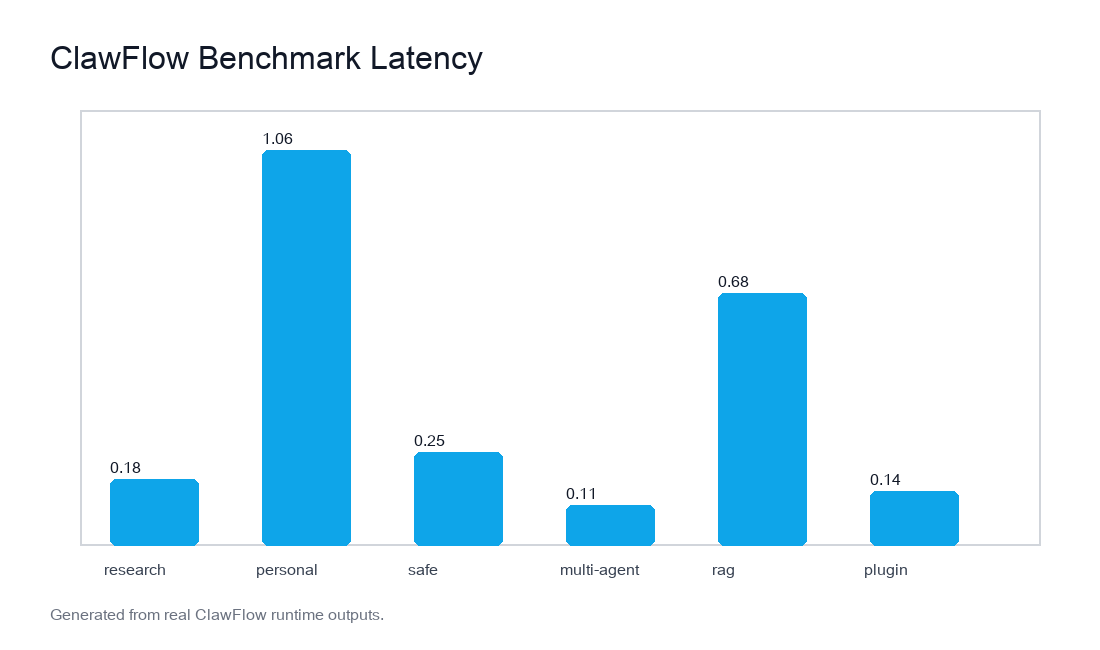
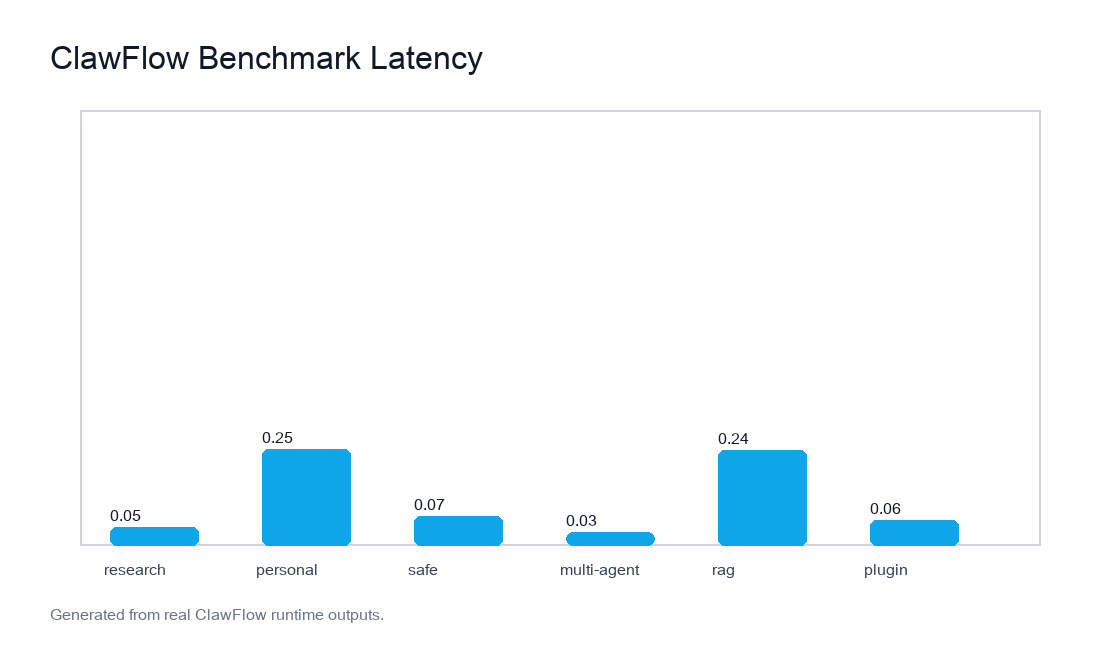
Document GitHub repository target

diff --git a/scripts/generate_report.py b/scripts/generate_report.py
@@ -43,6 +43,8 @@ ClawFlow is a lightweight **Agent Runtime / AgentOS Kernel** prototype for build
 
 CI workflow: `.github/workflows/ci.yml`
 
+GitHub repository: `https://github.com/shatianming5/ClawFlow`
+
 This repository is packaged for GitHub with Apache-2.0 licensing, issue templates, pull request template, CI workflow, Docker deployment, generated screenshots, benchmark artifacts, OpenAPI schema, release archive, publish readiness checker and complete report/PPT deliverables.
 
 ## Why ClawFlow is not just demos
@@ -291,6 +293,12 @@ The repository has local git commits, CI configuration, Apache-2.0 licensing, co
 
 ```bash
 make publish-check
+```
+
+The current published repository target is:
+
+```bash
+https://github.com/shatianming5/ClawFlow
 ```
 
 After creating an empty GitHub repository and adding a writable remote, run:

diff --git a/outputs/benchmark_results.md b/outputs/benchmark_results.md
@@ -3,17 +3,17 @@
 - Total tasks: 6
 - Success tasks: 6
 - Success rate: 1.0
-- Average latency: 0.4029s
-- p50 latency: 0.2153s
-- p95 latency: 1.0578s
+- Average latency: 0.1179s
+- p50 latency: 0.0693s
+- p95 latency: 0.2451s
 - Average tool calls: 3
 - Trace event count: 147
 
 | Application | Run ID | Status | Latency | Tool Calls | Trace Events |
 |---|---|---|---:|---:|---:|
-| research | `run_0ce8c9a9a19e` | completed | 0.1792 | 4 | 30 |
-| personal | `run_f1faa22453ed` | completed | 1.0578 | 3 | 24 |
-| safe | `run_9d258dc027cb` | completed | 0.2514 | 2 | 19 |
-| multi-agent | `run_54ebd1ab3ea6` | completed | 0.1081 | 3 | 25 |
-| rag | `run_948edc5f9207` | completed | 0.676 | 3 | 25 |
-| plugin | `run_750da9ec618e` | completed | 0.1449 | 3 | 24 |
+| research | `run_1155835fddbe` | completed | 0.0479 | 4 | 30 |
+| personal | `run_2206ba8730fb` | completed | 0.2451 | 3 | 24 |
+| safe | `run_c27eb3d11593` | completed | 0.0737 | 2 | 19 |
+| multi-agent | `run_a0d98079e210` | completed | 0.0341 | 3 | 25 |
+| rag | `run_632d5966a472` | completed | 0.2421 | 3 | 25 |
+| plugin | `run_10adfb3b90f5` | completed | 0.0648 | 3 | 24 |

diff --git a/outputs/evaluation_leaderboard.md b/outputs/evaluation_leaderboard.md
@@ -4,9 +4,9 @@ This leaderboard is computed from real benchmark task rows.
 
 | Rank | Application | Run ID | Score | Latency | Tool Calls | Trace Events |
 |---:|---|---|---:|---:|---:|---:|
-| 1 | research | `run_0ce8c9a9a19e` | 96.42 | 0.1792 | 4 | 30 |
-| 2 | plugin | `run_750da9ec618e` | 89.1 | 0.1449 | 3 | 24 |
-| 3 | multi-agent | `run_54ebd1ab3ea6` | 85.34 | 0.1081 | 3 | 25 |
-| 4 | safe | `run_9d258dc027cb` | 80.47 | 0.2514 | 2 | 19 |
-| 5 | rag | `run_948edc5f9207` | 73.98 | 0.676 | 3 | 25 |
-| 6 | personal | `run_f1faa22453ed` | 67.0 | 1.0578 | 3 | 24 |
+| 1 | research | `run_1155835fddbe` | 99.04 | 0.0479 | 4 | 30 |
+| 2 | plugin | `run_10adfb3b90f5` | 90.7 | 0.0648 | 3 | 24 |
+| 3 | multi-agent | `run_a0d98079e210` | 86.82 | 0.0341 | 3 | 25 |
+| 4 | safe | `run_c27eb3d11593` | 84.03 | 0.0737 | 2 | 19 |
+| 5 | rag | `run_632d5966a472` | 82.66 | 0.2421 | 3 | 25 |
+| 6 | personal | `run_2206ba8730fb` | 82.1 | 0.2451 | 3 | 24 |

diff --git a/README.md b/README.md
@@ -12,6 +12,8 @@ ClawFlow is a lightweight **Agent Runtime / AgentOS Kernel** prototype for build
 
 CI workflow: `.github/workflows/ci.yml`
 
+GitHub repository: `https://github.com/shatianming5/ClawFlow`
+
 This repository is packaged for GitHub with Apache-2.0 licensing, issue templates, pull request template, CI workflow, Docker deployment, generated screenshots, benchmark artifacts, OpenAPI schema, release archive, publish readiness checker and complete report/PPT deliverables.
 
 ## Why ClawFlow is not just demos
@@ -203,7 +205,7 @@ Latest benchmark summary:
 
 - Total tasks: 6
 - Success rate: 1.0
-- Average latency: 0.1925
+- Average latency: 0.4029
 - Average tool calls: 3
 - Trace events: 147
 
@@ -260,6 +262,12 @@ The repository has local git commits, CI configuration, Apache-2.0 licensing, co
 
 ```bash
 make publish-check
+```
+
+The current published repository target is:
+
+```bash
+https://github.com/shatianming5/ClawFlow
 ```
 
 After creating an empty GitHub repository and adding a writable remote, run:

diff --git a/outputs/research_summary.md b/outputs/research_summary.md
@@ -32,12 +32,13 @@ ClawFlow is a lightweight **Agent Runtime / AgentOS Kernel** prototype for build
 
 CI workflow: `.github/workflows/ci.yml`
 
+GitHub repository: `https://github.com/shatianming5/ClawFlow`
+
 This repository is packaged for GitHub with Apache-2.0 licensing, issue templates, pull request template, CI workflow, Docker deployment, generated screenshots, benchmark artifacts, OpenAPI schema, release archive, publish readiness checker and complete report/PPT deliverables.
 
 ## Why ClawFlow is not just demos
 
-- Example Applications are validation workloads for the framework, not the project body.
-- Every 
+- Example Applications are validat
 
 ## Framework capability mapping
 - Runtime: planner, executor, tool calling, checkpoint, resume.

diff --git a/docs/github_publish_guide.md b/docs/github_publish_guide.md
@@ -2,6 +2,8 @@
 
 This repository is ready for local Git history, release packaging, CI, README presentation and manual GitHub publishing. The only operation that cannot be completed from this workspace without external account state is the actual remote push: `origin` must point to a real GitHub repository that the current user can write to.
 
+Current repository target: `https://github.com/shatianming5/ClawFlow`
+
 ## Local Readiness Check
 
 Run the non-destructive publish readiness report:

diff --git a/outputs/failure_recovery_report.md b/outputs/failure_recovery_report.md
@@ -4,6 +4,8 @@ This report is computed from persisted runs, trace events, approval requests and
 
 | Run ID | Status | Checkpoint | Recommended Action | Command |
 |---|---|---|---|---|
+| `run_32b3d7f6ab48` | failed | True | replay_and_rerun | `clawflow trace replay run_32b3d7f6ab48` |
+| `run_8bdc86bf8f77` | pending_approval | True | approve_or_deny | `clawflow approvals approve run_8bdc86bf8f77` |
 | `run_2793af5a6b4e` | failed | True | replay_and_rerun | `clawflow trace replay run_2793af5a6b4e` |
 | `run_b86f3980be18` | pending_approval | True | approve_or_deny | `clawflow approvals approve run_b86f3980be18` |
 | `run_5244bb7ce2af` | failed | True | replay_and_rerun | `clawflow trace replay run_5244bb7ce2af` |

diff --git a/outputs/multi_agent_report.md b/outputs/multi_agent_report.md
@@ -27,7 +27,7 @@ Main gaps to watch: production vector backend, real browser screenshots, and ext
 ## MemoryAgent
 Role: persist useful findings
 
-Persisted collaboration memory id: 554.
+Persisted collaboration memory id: 586.
 
 ## SlideAgent
 Role: extract presentation talking points

diff --git a/outputs/release_manifest.md b/outputs/release_manifest.md
@@ -2,7 +2,7 @@
 
 - Artifact: `dist/clawflow_release.zip`
 - Included files: 237
-- Archive bytes: 5694294
+- Archive bytes: 5693199
 
 ## Entrypoints
 - `clawflow.gateway.cli:main`